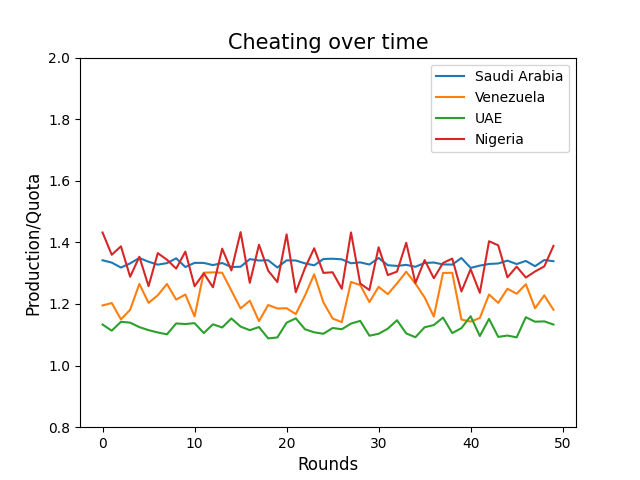
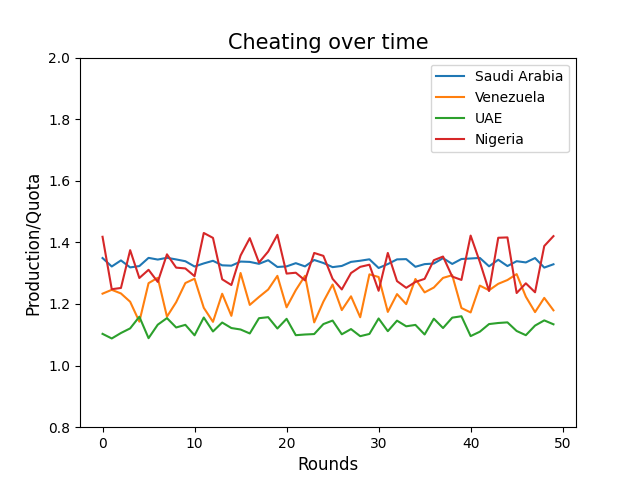
added second run with noise=0

Changed region(s): [[0.1562, 0.4688, 0.875, 0.7188]]

diff --git a/main.py b/main.py
@@ -21,16 +21,18 @@ def calc_price(supply, base_supply, base_price, sensitivity):
 
 
 class Simulation:
-    def __init__(self, strat_name):
+    def __init__(self, strat_name, use_noise = True):
         self.market_state = market.MarketState(BASE_PRICE, BASE_SUPPLY)
         self.countries = self.load_countries(strategy_name=strat_name)
         self.prices = []
+        self.use_noise = use_noise
 
     def step(self):
         total_prod = 0
         for country in self.countries:
             country.production = country.decide_production(self.market_state)
-            country.production += random.uniform(-1, 1) * PROD_NOISE
+            if self.use_noise:
+                country.production += random.uniform(-1, 1) * PROD_NOISE
             total_prod += country.production
 
         new_price = calc_price(total_prod, BASE_SUPPLY, BASE_PRICE, SUPPLY_SENSITIVITY)
@@ -77,6 +79,11 @@ def main():
         simulation.step()
 
     simulation.plot()
+
+    
+    simulation = Simulation(CURR_STRAT, use_noise=False)
+    for _ in range(ROUNDS):
+        simulation.step()
 
     cartel_total = 0
     print("strategy: ", CURR_STRAT)
